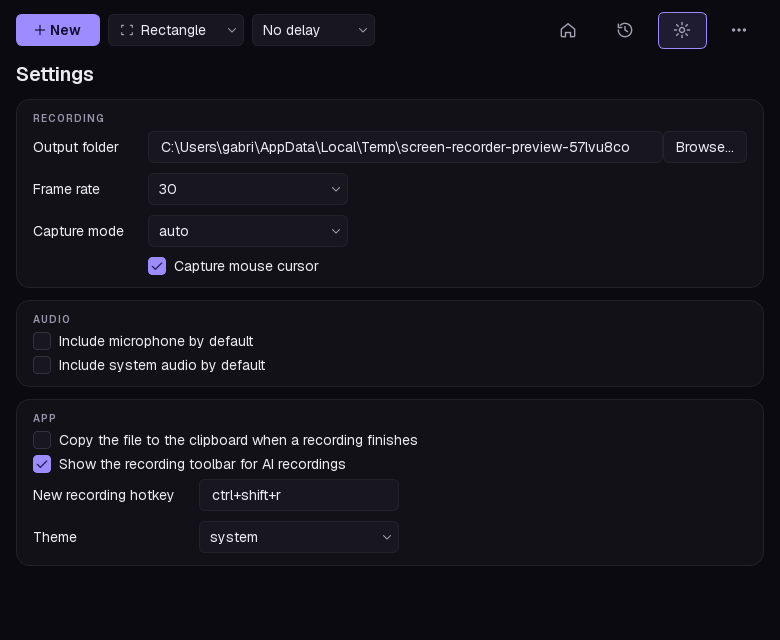
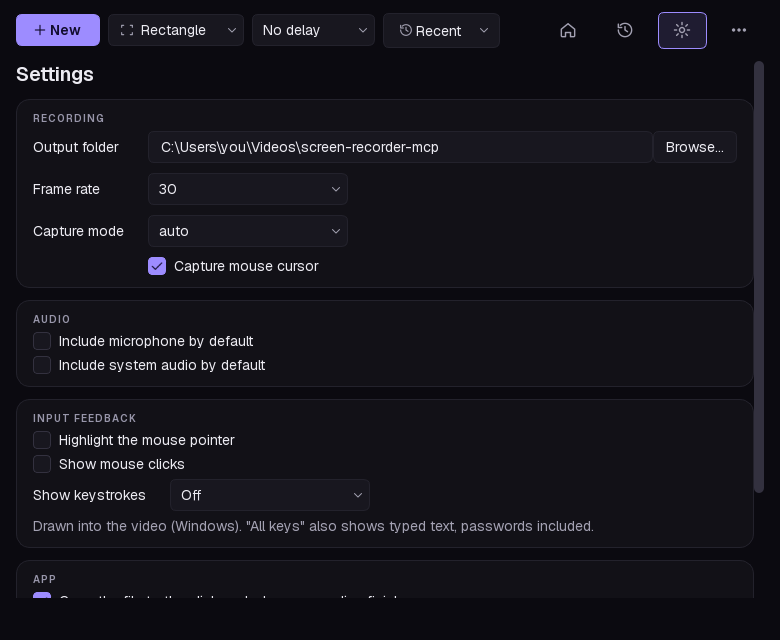
Selection toolbar: Mouse / Keys input feedback and a Cancel button
Input feedback was only in Settings, at the bottom of a page that did not
scroll, so it was easy to miss. The selection toolbar, shown right before
every recording, now has:

- Mouse: cursor halo and click ripples, one toggle;
- Keys: a menu with Off / Shortcuts only / All keys (typed text too);
- Cancel, with a label instead of a bare close icon.

The choice applies to this recording and is saved as the new default.
UI requests now carry the overlay options explicitly. The Settings page
scrolls, so no section is cut off in a small window.

diff --git a/src/screen_recorder_mcp/ui/selection_toolbar.py b/src/screen_recorder_mcp/ui/selection_toolbar.py
@@ -1,16 +1,22 @@
-"""Top-centre floating toolbar of the selection overlay: mode switcher + close (RecordingSelectionView)."""
+"""Top-centre floating toolbar of the selection overlay: mode switcher, input feedback, Cancel."""
 
 from __future__ import annotations
 
-from PySide6.QtCore import QSize, Qt, Signal
-from PySide6.QtWidgets import QButtonGroup, QFrame, QHBoxLayout, QToolButton, QWidget
+from dataclasses import replace
 
+from PySide6.QtCore import QSize, Qt, Signal
+from PySide6.QtGui import QAction, QActionGroup
+from PySide6.QtWidgets import QButtonGroup, QFrame, QHBoxLayout, QMenu, QToolButton, QWidget
+
+from screen_recorder_mcp.input_overlay import KeyMode, OverlayOptions
 from screen_recorder_mcp.ui.icons import icon
 from screen_recorder_mcp.ui.os_integration import exclude_from_capture
 from screen_recorder_mcp.ui.theme import Palette
 from screen_recorder_mcp.ui.theme_controller import ThemeController
 from screen_recorder_mcp.ui.view_models import MODE_LABELS, CaptureTargetMode
-from screen_recorder_mcp.ui.widgets_common import IconButton
+
+KEY_MENU = {KeyMode.OFF: "Off", KeyMode.SHORTCUTS: "Shortcuts only", KeyMode.ALL: "All keys (typed text too)"}
+KEY_BUTTON = {KeyMode.OFF: "Keys", KeyMode.SHORTCUTS: "Keys: shortcuts", KeyMode.ALL: "Keys: all"}
 
 _MODE_ICONS = {
     CaptureTargetMode.RECTANGLE: "rectangle",
@@ -20,17 +26,26 @@ _MODE_ICONS = {
 
 
 class SelectionToolbar(QWidget):
-    """Example: bar = SelectionToolbar(theme); bar.mode_selected.connect(session.set_mode)"""
+    """Example: bar = SelectionToolbar(theme); bar.mode_selected.connect(session.set_mode)
+
+    Mouse toggles the cursor halo and click ripples together; Keys picks the keystroke mode.
+    Both are shown here, at the moment of recording, because that is where people look for them.
+    """
 
     mode_selected = Signal(object)  # CaptureTargetMode
+    overlay_changed = Signal(object)  # OverlayOptions
     closed = Signal()
 
-    def __init__(self, theme: ThemeController, mode: CaptureTargetMode = CaptureTargetMode.RECTANGLE) -> None:
+    def __init__(
+        self, theme: ThemeController, mode: CaptureTargetMode = CaptureTargetMode.RECTANGLE,
+        overlay: OverlayOptions | None = None,
+    ) -> None:
         super().__init__()
         self.setWindowFlags(Qt.WindowType.Tool | Qt.WindowType.FramelessWindowHint | Qt.WindowType.WindowStaysOnTopHint)
         self.setAttribute(Qt.WidgetAttribute.WA_TranslucentBackground)
         self._theme = theme
         self._buttons: dict[CaptureTargetMode, QToolButton] = {}
+        self._overlay = overlay or OverlayOptions()
         self._build(mode)
         theme.changed.connect(self._restyle)
         self._restyle(theme.palette)
@@ -48,11 +63,72 @@ class SelectionToolbar(QWidget):
             button = self._mode_button(kind)
             group.addButton(button)
             row.addWidget(button)
-        close = IconButton("close", "Close (Esc)", self._theme, tint="text_muted")
-        close.clicked.connect(self.closed)
-        row.addWidget(close)
+        row.addWidget(self._divider())
+        self._mouse = self._toggle_button("Mouse", "Highlight the pointer and show clicks in the video")
+        self._mouse.setChecked(self._overlay.cursor_halo or self._overlay.show_clicks)
+        self._mouse.toggled.connect(self._mouse_toggled)
+        self._keys = self._toggle_button(KEY_BUTTON[self._overlay.show_keys], "Show pressed keys in the video")
+        self._keys.setCheckable(False)
+        self._keys.setMenu(self._keys_menu())
+        self._keys.setPopupMode(QToolButton.ToolButtonPopupMode.InstantPopup)
+        row.addWidget(self._mouse)
+        row.addWidget(self._keys)
+        row.addWidget(self._divider())
+        cancel = self._toggle_button("Cancel", "Cancel (Esc)")
+        cancel.setCheckable(False)
+        cancel.setIcon(icon("close", self._theme.palette.text_muted, 16))
+        cancel.clicked.connect(self.closed)
+        row.addWidget(cancel)
         self.set_mode(mode)
         outer.addWidget(self._pill)
+
+    def _divider(self) -> QFrame:
+        line = QFrame()
+        line.setFrameShape(QFrame.Shape.VLine)
+        line.setFixedWidth(1)
+        line.setStyleSheet(f"color: {self._theme.palette.border_strong};")
+        return line
+
+    def _toggle_button(self, text: str, tip: str) -> QToolButton:
+        button = QToolButton()
+        button.setText(text)
+        button.setToolTip(tip)
+        button.setCheckable(True)
+        button.setToolButtonStyle(Qt.ToolButtonStyle.ToolButtonTextBesideIcon)
+        button.setIconSize(QSize(16, 16))
+        button.setProperty("flat", True)
+        return button
+
+    def _keys_menu(self) -> QMenu:
+        menu = QMenu(self._keys)
+        group = QActionGroup(menu)
+        self._key_actions: dict[KeyMode, QAction] = {}
+        for mode, label in KEY_MENU.items():
+            action = menu.addAction(label)
+            action.setCheckable(True)
+            action.setChecked(mode is self._overlay.show_keys)
+            action.triggered.connect(lambda _checked=False, m=mode: self.set_key_mode(m))
+            group.addAction(action)
+            self._key_actions[mode] = action
+        return menu
+
+    def overlay(self) -> OverlayOptions:
+        return self._overlay
+
+    def _mouse_toggled(self, on: bool) -> None:
+        self._set_overlay(replace(self._overlay, cursor_halo=on, show_clicks=on))
+
+    def set_key_mode(self, mode: KeyMode) -> None:
+        self._key_actions[mode].setChecked(True)
+        self._keys.setText(KEY_BUTTON[mode])
+        self._set_overlay(replace(self._overlay, show_keys=mode))
+
+    def _set_overlay(self, options: OverlayOptions) -> None:
+        if options == self._overlay:
+            return
+        self._overlay = options
+        self._restyle(self._theme.palette)
+        self.overlay_changed.emit(options)
 
     def _mode_button(self, kind: CaptureTargetMode) -> QToolButton:
         button = QToolButton()
@@ -75,6 +151,11 @@ class SelectionToolbar(QWidget):
         for kind, button in self._buttons.items():
             color = palette.accent_strong if button.isChecked() else palette.text_muted
             button.setIcon(icon(_MODE_ICONS[kind], color, 18))
+        if hasattr(self, "_mouse"):
+            mouse_on = self._overlay.cursor_halo or self._overlay.show_clicks
+            keys_on = self._overlay.show_keys is not KeyMode.OFF
+            self._mouse.setIcon(icon("pointer", palette.accent_strong if mouse_on else palette.text_muted, 16))
+            self._keys.setIcon(icon("keyboard", palette.accent_strong if keys_on else palette.text_muted, 16))
         self._pill.setStyleSheet(
             f'QFrame[role="pill"] {{ background: {palette.surface_overlay}; border: 1px solid {palette.border_strong};'
             f" border-radius: 22px; }}"
@@ -83,3 +164,4 @@ class SelectionToolbar(QWidget):
     def showEvent(self, event: object) -> None:
         super().showEvent(event)  # type: ignore[arg-type]
         exclude_from_capture(self)
+

diff --git a/tests/test_selection_feedback.py b/tests/test_selection_feedback.py
@@ -1,0 +1,40 @@
+"""Selection toolbar: Mouse / Keys input feedback and Cancel, and how the choice reaches the request."""
+
+from pathlib import Path
+
+from screen_recorder_mcp.capture import AudioMode
+from screen_recorder_mcp.input_overlay import KeyMode, OverlayOptions
+from screen_recorder_mcp.service import RecorderSettings
+from screen_recorder_mcp.ui.selection_toolbar import KEY_BUTTON, SelectionToolbar
+from screen_recorder_mcp.ui.view_models import build_request
+
+
+def test_mouse_toggle_switches_halo_and_clicks_together(qapp, theme) -> None:  # type: ignore[no-untyped-def]
+    bar = SelectionToolbar(theme)
+    seen: list[OverlayOptions] = []
+    bar.overlay_changed.connect(seen.append)
+    bar._mouse.setChecked(True)  # noqa: SLF001
+    bar._mouse.setChecked(False)  # noqa: SLF001
+    assert seen == [OverlayOptions(True, True, KeyMode.OFF), OverlayOptions()]
+
+
+def test_keys_menu_sets_mode_and_label(qapp, theme) -> None:  # type: ignore[no-untyped-def]
+    bar = SelectionToolbar(theme, overlay=OverlayOptions(cursor_halo=True, show_clicks=True))
+    assert bar._mouse.isChecked() and bar._keys.text() == KEY_BUTTON[KeyMode.OFF]  # noqa: SLF001
+    bar._key_actions[KeyMode.ALL].trigger()  # noqa: SLF001
+    assert bar.overlay() == OverlayOptions(True, True, KeyMode.ALL) and bar._keys.text() == "Keys: all"  # noqa: SLF001
+
+
+def test_cancel_closes_the_selection(qapp, theme) -> None:  # type: ignore[no-untyped-def]
+    bar = SelectionToolbar(theme)
+    closed: list[bool] = []
+    bar.closed.connect(lambda: closed.append(True))
+    cancel = next(b for b in bar.findChildren(type(bar._mouse)) if b.text() == "Cancel")  # noqa: SLF001
+    cancel.click()
+    assert closed == [True]
+
+
+def test_ui_requests_carry_the_settings_overlay() -> None:
+    settings = RecorderSettings(output_dir=Path("v"), highlight_cursor=True, show_keys=KeyMode.SHORTCUTS)
+    request = build_request("monitor:1", None, settings, AudioMode.NONE, 0)
+    assert request.overlay == OverlayOptions(True, False, KeyMode.SHORTCUTS)

diff --git a/src/screen_recorder_mcp/ui/selection_session.py b/src/screen_recorder_mcp/ui/selection_session.py
@@ -8,6 +8,7 @@ from PySide6.QtCore import QObject, Signal
 from PySide6.QtGui import QGuiApplication
 
 from screen_recorder_mcp.geometry import Rect
+from screen_recorder_mcp.input_overlay import OverlayOptions
 from screen_recorder_mcp.service import TargetList
 from screen_recorder_mcp.ui import selection_geometry as geo
 from screen_recorder_mcp.ui.selection_overlay import MonitorOverlay
@@ -44,22 +45,24 @@ class SelectionSession(QObject):
 
     selected = Signal(object)  # SelectionResult
     cancelled = Signal()
+    overlay_changed = Signal(object)  # OverlayOptions, from the toolbar's Mouse / Keys
 
     def __init__(
         self, theme: ThemeController, targets: TargetList, screens: list[ScreenInfo],
         mode: CaptureTargetMode = CaptureTargetMode.RECTANGLE, constrain_to: Rect | None = None,
-        start_label: str = "Start", toolbar_screen: int = 0,
+        start_label: str = "Start", toolbar_screen: int = 0, overlay: OverlayOptions | None = None,
     ) -> None:
         super().__init__()
         self._theme, self._mode, self._constrain = theme, mode, constrain_to
         monitors = [Rect(**m["rect"]) for m in targets.monitors]  # type: ignore[arg-type]
         indexes = geo.match_monitors([s.physical_size for s in screens], monitors)
         self._overlays = self._build_overlays(screens, indexes, monitors, targets, start_label)
-        self._toolbar = None if constrain_to else SelectionToolbar(theme, mode)
+        self._toolbar = None if constrain_to else SelectionToolbar(theme, mode, overlay)
         self._toolbar_screen = screens[min(toolbar_screen, len(screens) - 1)].logical
         if self._toolbar:
             self._toolbar.mode_selected.connect(self.set_mode)
             self._toolbar.closed.connect(self._cancel)
+            self._toolbar.overlay_changed.connect(self.overlay_changed)
 
     def _build_overlays(
         self, screens: list[ScreenInfo], indexes: list[int | None], monitors: list[Rect],

diff --git a/src/screen_recorder_mcp/ui/controller.py b/src/screen_recorder_mcp/ui/controller.py
@@ -5,11 +5,13 @@ Views never talk to the overlays; they call `begin_selection` and listen to the 
 
 from __future__ import annotations
 
+from dataclasses import replace
 from typing import Callable
 
 from PySide6.QtCore import QObject, QPoint, QTimer, Signal
 
 from screen_recorder_mcp.geometry import Rect
+from screen_recorder_mcp.input_overlay import OverlayOptions
 from screen_recorder_mcp.service import (
     RecorderEvent,
     RecorderEventKind,
@@ -98,10 +100,22 @@ class RecordingController(QObject):
     def _open_session(self, targets: object, mode: CaptureTargetMode, delay: int) -> None:
         screens = self._screens()
         cursor_screen = 0
-        self._session = SelectionSession(self._theme, targets, screens, mode, toolbar_screen=cursor_screen)  # type: ignore[arg-type]
+        self._session = SelectionSession(
+            self._theme, targets, screens, mode, toolbar_screen=cursor_screen,  # type: ignore[arg-type]
+            overlay=self._settings.overlay_options(),
+        )
+        self._session.overlay_changed.connect(self._remember_overlay)
         self._session.selected.connect(lambda result: self._on_selected(result, delay))
         self._session.cancelled.connect(self._drop_session)
         self._session.show()
+
+    def _remember_overlay(self, options: OverlayOptions) -> None:
+        """The toolbar's Mouse / Keys apply to this recording and become the new defaults."""
+        changes = {"highlight_cursor": options.cursor_halo, "show_clicks": options.show_clicks,
+                   "show_keys": options.show_keys}  # fmt: skip
+        self._settings = replace(self._settings, **changes)  # type: ignore[arg-type]
+        self._runner.submit(lambda: self._service.update_settings(changes),
+                            on_error=lambda e: self.error.emit(f"Could not save input feedback: {e}"))  # fmt: skip
 
     def _drop_session(self) -> None:
         self._session = None

diff --git a/src/screen_recorder_mcp/ui/main_window.py b/src/screen_recorder_mcp/ui/main_window.py
@@ -5,7 +5,8 @@ from __future__ import annotations
 from PySide6.QtCore import QSize, Qt, QTimer, Signal
 from PySide6.QtGui import QAction, QCloseEvent
 from PySide6.QtWidgets import (
-    QComboBox, QHBoxLayout, QLabel, QMainWindow, QMenu, QPushButton, QStackedWidget, QToolButton, QVBoxLayout, QWidget,
+    QComboBox, QFrame, QHBoxLayout, QLabel, QMainWindow, QMenu, QPushButton, QScrollArea, QStackedWidget, QToolButton,
+    QVBoxLayout, QWidget,
 )
 
 from screen_recorder_mcp.service import RecorderService, RecordingInfo
@@ -99,7 +100,12 @@ class MainWindow(QMainWindow):
         self._history = HistoryView(self._service, thumbnails, runner, self._playback.clipboard, self._theme)
         self._settings = SettingsView(self._service, dialogs)
         self._settings.load()
-        for page in (self._home, self._history, self._settings):
+        settings_page = QScrollArea()  # the settings outgrow a small window; never cut a section off
+        settings_page.setWidget(self._settings)
+        settings_page.setWidgetResizable(True)
+        settings_page.setFrameShape(QFrame.Shape.NoFrame)
+        settings_page.setStyleSheet("QScrollArea, QScrollArea > QWidget > QWidget { background: transparent; }")
+        for page in (self._home, self._history, settings_page):
             self._pages.addWidget(page)
         column.addWidget(self._pages, 1)
         self._toast = role_label("", "muted")

diff --git a/src/screen_recorder_mcp/ui/preview_shots.py b/src/screen_recorder_mcp/ui/preview_shots.py
@@ -11,6 +11,7 @@ from PySide6.QtWidgets import QApplication, QWidget
 
 from screen_recorder_mcp.capture import AudioMode
 from screen_recorder_mcp.geometry import Rect
+from screen_recorder_mcp.input_overlay import KeyMode, OverlayOptions
 from screen_recorder_mcp.service import RecordingState, RecordingStatus, TargetList
 from screen_recorder_mcp.ui.demo_service import DemoRecorderService
 from screen_recorder_mcp.ui.gif_dialog import GifExportDialog
@@ -62,7 +63,8 @@ def selection_shot(theme: ThemeController, out: Path, mode: CaptureTargetMode) -
                   "rect": Rect(560, 200, 600, 400).as_dict()}],
         monitors=[{"target": "monitor:1", "rect": DESKTOP.as_dict()}],
     )
-    session = SelectionSession(theme, targets, [ScreenInfo(DESKTOP, 1.0)], mode)
+    feedback = OverlayOptions(cursor_halo=True, show_clicks=True, show_keys=KeyMode.SHORTCUTS)
+    session = SelectionSession(theme, targets, [ScreenInfo(DESKTOP, 1.0)], mode, overlay=feedback)
     session.show()
     overlay = session.overlays()[0]
     _prepare_overlay(overlay, mode)

diff --git a/src/screen_recorder_mcp/ui/icons.py b/src/screen_recorder_mcp/ui/icons.py
@@ -16,6 +16,8 @@ _PATHS: dict[str, str] = {
     "gear": '<circle cx="12" cy="12" r="3"/><path d="M12 3v2.5M12 18.5V21M3 12h2.5M18.5 12H21M5.6 5.6l1.8 1.8M16.6 16.6l1.8 1.8M5.6 18.4l1.8-1.8M16.6 7.4l1.8-1.8"/>',
     "dots": '<circle cx="5.5" cy="12" r="1.2" fill="currentColor"/><circle cx="12" cy="12" r="1.2" fill="currentColor"/><circle cx="18.5" cy="12" r="1.2" fill="currentColor"/>',
     "close": '<path d="M6 6l12 12M18 6L6 18"/>',
+    "pointer": '<path d="M5 3l13 7.5-5.5 1.5 3 5.5-2.6 1.4-3-5.5L6 17.5z"/>',
+    "keyboard": '<rect x="2.5" y="6" width="19" height="12" rx="2"/><path d="M6 10h.01M10 10h.01M14 10h.01M18 10h.01M7 14h10"/>',
     "pause": '<path d="M9 5v14M15 5v14"/>',
     "play": '<path d="M8 5.5v13l10.5-6.5z" fill="currentColor"/>',
     "stop": '<rect x="6" y="6" width="12" height="12" rx="2" fill="currentColor"/>',

diff --git a/src/screen_recorder_mcp/ui/view_models.py b/src/screen_recorder_mcp/ui/view_models.py
@@ -139,6 +139,7 @@ def build_request(
         target=target, region=region, fps=settings.default_fps, audio=audio,
         capture_cursor=settings.capture_cursor, capture=settings.capture_mode,
         output_dir=settings.output_dir, started_by="user", delay_seconds=delay,
+        overlay=settings.overlay_options(),
     )
 
 

diff --git a/README.md b/README.md
@@ -77,7 +77,7 @@ It sits in the tray. **+ New** (or `Ctrl+Shift+R`) opens the selection overlay:
 - **Rectangle**: drag an area of the screen. This is a screen region, so whatever is on top of it is recorded too.
 - **Full screen**: click a monitor.
 
-**Input feedback** (Settings > Input feedback, Windows): a halo around the mouse pointer, a ripple on
+**Input feedback** (**Mouse** and **Keys** on the selection toolbar, or Settings > Input feedback; Windows): a halo around the mouse pointer, a ripple on
 each click (blue left, orange right, a dot while held) and keystroke chips at the bottom (shortcuts only,
 or all keys including typed text). They are drawn into the video itself, so they also show up in
 window recordings. All off by default; "All keys" also shows passwords typed during the recording.
